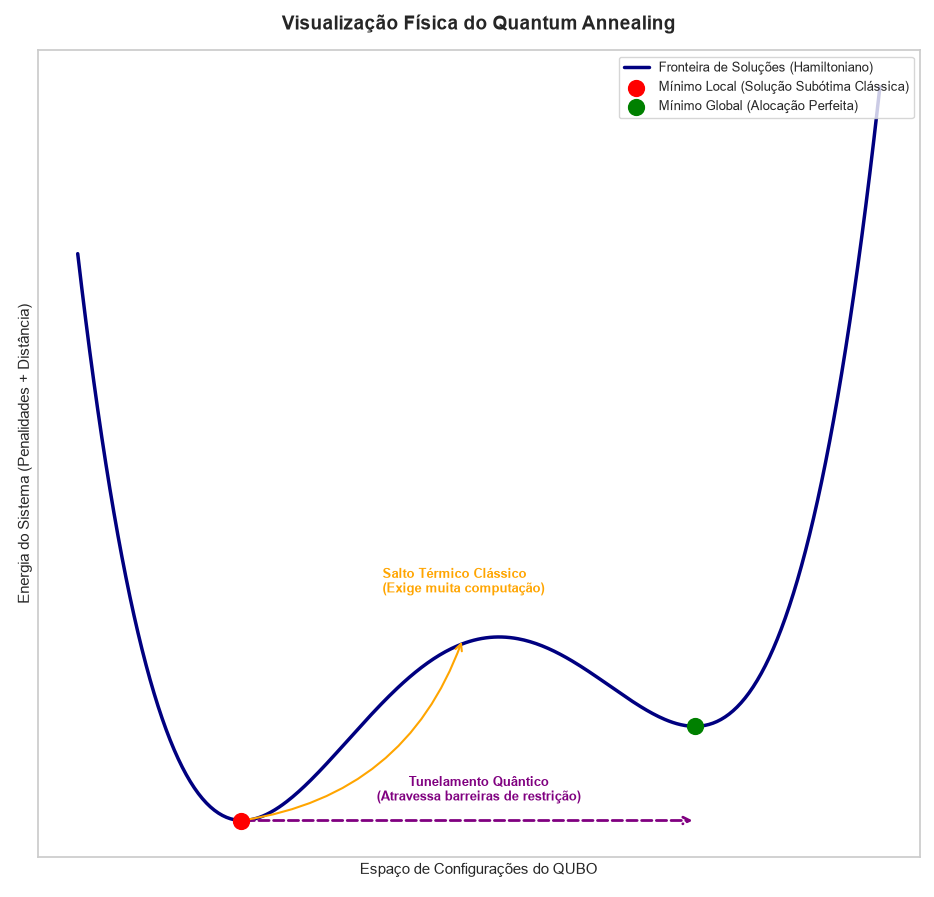
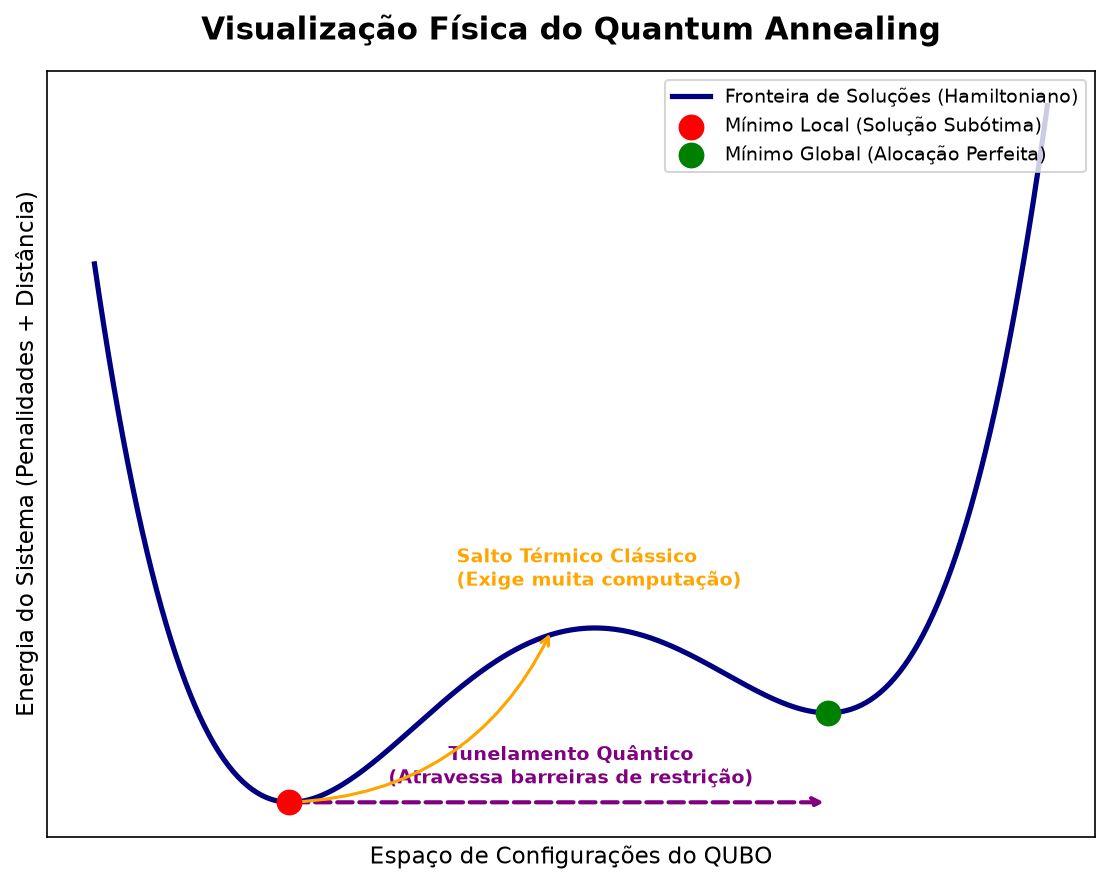
v3

diff --git a/qubo_teacher_allocation.py b/qubo_teacher_allocation.py
@@ -1,108 +1,60 @@
 import numpy as np
 import pandas as pd
 import matplotlib.pyplot as plt
-import seaborn as sns
+import matplotlib.patches as mpatches
+from matplotlib.patches import FancyBboxPatch
 import dimod
 import neal
 import itertools
 
 # =====================================================================
-# 1. RELATÓRIO TEÓRICO (RESPOSTAS COMPLETA DAS PERGUNTAS)
-# =====================================================================
-print("="*80)
-print("     RELATÓRIO TÉCNICO: OTIMIZAÇÃO DA DISTRIBUIÇÃO DE PROFESSORES     ")
-print("="*80)
-
-print("\nREQUISITO 1: Como a otimização de distribuição de professores pode ser feita?")
-print("-"*80)
-print("1. Mapeamento QUBO: O problema combinatório (NP-Difícil) é convertido em uma\n"
-      "   Função de Custo Binária (QUBO). Variáveis X_(p,e,h) assumem 1 para alocação\n"
-      "   e 0 para o contrário.\n"
-      "2. Hamiltoniano do Sistema: As regras do mundo real são traduzidas em energia:\n"
-      "   - Hard Constraints (Restrições Rígidas): Regras invioláveis (ex: professor em\n"
-      "     dois lugares ao mesmo tempo) recebem penalidades matemáticas gigantescas (+100).\n"
-      "   - Soft Constraints (Objetivos): O que queremos otimizar (ex: minimizar a\n"
-      "     distância de deslocamento) recebe pesos proporcionais ao custo real.\n"
-      "3. Realidade Quântica (Era NISQ): Hardwares atuais (100 a 1100 qubits físicos, erro ~10^-3)\n"
-      "   não suportam redes escolares inteiras diretamente. A abordagem real exige\n"
-      "   Decomposição Combinatória: solvers clássicos isolam os gargalos críticos, e a QPU\n"
-      "   resolve apenas essas submatrizes complexas.")
-
-print("\nREQUISITO 2: Quais algoritmos quânticos podem ser utilizados?")
-print("-"*80)
-print("1. QAOA (Quantum Approximate Optimization Algorithm): Algoritmo híbrido para\n"
-      "   computadores baseados em portas lógicas (IBM, Google). Alterna camadas de custo\n"
-      "   e mistura quântica, ajustando parâmetros via otimizadores clássicos.\n"
-      "2. Quantum Annealing (Recozimento Quântico): Utilizado por máquinas analógicas (D-Wave).\n"
-      "   Evolui o sistema adiabaticamente, permitindo que os qubits usem o Tunelamento Quântico\n"
-      "   para 'atravessar' picos de restrições e colapsar no Mínimo Global (solução ótima).\n"
-      "3. VQE (Variational Quantum Eigensolver): Outro algoritmo variacional híbrido,\n"
-      "   focado em encontrar o menor autovalor (estado fundamental de energia) do Hamiltoniano.")
-
-print("\n" + "="*80)
-print("             EXECUÇÃO DA SIMULAÇÃO (TOY PROBLEM QUÂNTICO)            ")
-print("="*80)
-
-# =====================================================================
-# 2. MODELAGEM DO TOY PROBLEM (DADOS SIMULADOS)
+# 1. DADOS DO PROBLEMA
 # =====================================================================
 professores = ['P1', 'P2', 'P3']
 escolas = ['E1', 'E2']
 horarios = ['Manha', 'Tarde']
 
-# Custo de deslocamento (em km ou tempo)
 distancias = {
     'P1': {'E1': 5,  'E2': 15},
     'P2': {'E1': 20, 'E2': 5},
     'P3': {'E1': 10, 'E2': 12}
 }
 
-print("\nMatriz de Custos de Entrada (Distância em km):")
+print("Matriz de Custos de Entrada (Distância em km):")
 df_dist = pd.DataFrame(distancias).T
 print(df_dist)
 print("-"*40)
 
 # =====================================================================
-# 3. FORMULAÇÃO MATEMÁTICA DO HAMILTONIANO (O QUBO)
+# 2. QUBO / HAMILTONIANO
 # =====================================================================
 bqm = dimod.BinaryQuadraticModel('BINARY')
 
-PENALIDADE_ESCOLA = 100        
-PENALIDADE_DUPLICIDADE = 100   
+PENALIDADE_ESCOLA = 100
+PENALIDADE_DUPLICIDADE = 100
 
-# A. Soft Constraint: Minimizar a Distância Geral
 for p in professores:
     for e in escolas:
         for h in horarios:
-            var_name = f"{p}_{e}_{h}"
-            bqm.add_linear(var_name, distancias[p][e])
+            bqm.add_linear(f"{p}_{e}_{h}", distancias[p][e])
 
-# B. Hard Constraint 1: Exatamente 1 professor por escola/horário
 for e in escolas:
     for h in horarios:
         for p in professores:
-            var_name = f"{p}_{e}_{h}"
-            bqm.add_linear(var_name, -PENALIDADE_ESCOLA)
-        
+            bqm.add_linear(f"{p}_{e}_{h}", -PENALIDADE_ESCOLA)
         for i, p1 in enumerate(professores):
             for j, p2 in enumerate(professores):
                 if i < j:
-                    var1 = f"{p1}_{e}_{h}"
-                    var2 = f"{p2}_{e}_{h}"
-                    bqm.add_quadratic(var1, var2, 2 * PENALIDADE_ESCOLA)
-                    
+                    bqm.add_quadratic(f"{p1}_{e}_{h}", f"{p2}_{e}_{h}", 2 * PENALIDADE_ESCOLA)
         bqm.offset += PENALIDADE_ESCOLA
 
-# C. Hard Constraint 2: Um professor não pode estar em 2 escolas ao mesmo tempo (Escalável)
 for p in professores:
     for h in horarios:
         for e1, e2 in itertools.combinations(escolas, 2):
-            var1 = f"{p}_{e1}_{h}"
-            var2 = f"{p}_{e2}_{h}"
-            bqm.add_quadratic(var1, var2, PENALIDADE_DUPLICIDADE)
+            bqm.add_quadratic(f"{p}_{e1}_{h}", f"{p}_{e2}_{h}", PENALIDADE_DUPLICIDADE)
 
 # =====================================================================
-# 4. RESOLUÇÃO VIA SIMULATED ANNEALING (SIMULADOR OCEAN SDK)
+# 3. RESOLUÇÃO (SIMULATED ANNEALING)
 # =====================================================================
 print("Executando o Annealer para varrer a paisagem de energia...")
 sampler = neal.SimulatedAnnealingSampler()
@@ -110,7 +62,6 @@ sampleset = sampler.sample(bqm, num_reads=2000)
 
 best_sample = sampleset.first.sample
 best_energy = sampleset.first.energy
-
 print(f"Sucesso! Mínimo Global (Energia de Base) Encontrado: {best_energy}")
 
 alocacao = []
@@ -121,51 +72,98 @@ for var, val in best_sample.items():
 
 df_alocacao = pd.DataFrame(alocacao)
 
-print("\n" + "="*80)
-print("                        RESULTADOS ENCONTRADOS                       ")
-print("="*80)
+print("\nRESULTADOS ENCONTRADOS")
 if not df_alocacao.empty:
     print(df_alocacao.to_string(index=False))
-    print("-"*40)
     print(f"Custo Total de Deslocamento do Ecossistema: {df_alocacao['Distância'].sum()} km")
-    
-    # Validação de Negócio (Alerta de ociosidade comum em otimizações puras)
     profs_alocados = df_alocacao['Professor'].unique()
     profs_ociosos = [p for p in professores if p not in profs_alocados]
     if profs_ociosos:
-        print(f"\n[ALERTA] NOTA DE ENGENHARIA: O algoritmo deixou o(s) professor(es) {profs_ociosos} ociosos.")
-        print("  Isso ocorre porque o Mínimo Global priorizou a eficiência máxima de distância.")
+        print(f"[ALERTA] Professor(es) ocioso(s): {profs_ociosos}")
 else:
+    profs_alocados = []
+    profs_ociosos = professores
     print("Erro: Nenhuma alocação respeitou as Hard Constraints.")
 
-# Preparação da matriz para o Heatmap gráfico
-mapa_alocacao = pd.DataFrame(index=escolas, columns=horarios, data="")
-for _, row in df_alocacao.iterrows():
-    mapa_alocacao.at[row['Escola'], row['Horário']] = row['Professor']
-
 # =====================================================================
-# 5. VISUALIZAÇÕES GRÁFICAS (MATPLOTLIB & SEABORN)
+# 4. VISUALIZAÇÕES (DOIS GRÁFICOS LADO A LADO)
 # =====================================================================
-sns.set_theme(style="whitegrid")
-fig = plt.figure(figsize=(15, 6))
+fig = plt.figure(figsize=(15, 6.5))
 
-# --- GRÁFICO 1: Heatmap da Alocação Ótima ---
+# --- GRÁFICO 1 (NOVO): Quadro de Alocação Docente ---
 ax1 = plt.subplot(1, 2, 1)
 
-def get_prof_idx(prof_str):
-    return professores.index(prof_str) if prof_str in professores else -1
+cell_w, cell_h = 2.4, 1.8
+x_offset, y_offset = 1.6, 1.0
+cores_prof = {'P1': '#2E6F95', 'P2': '#3E9C6B', 'P3': '#C08A3E'}
+custo_max = max(v for d in distancias.values() for v in d.values())
 
-mapa_cores = np.array([[get_prof_idx(mapa_alocacao.loc[e, h]) for h in horarios] for e in escolas])
+for i, e in enumerate(escolas):
+    for j, h in enumerate(horarios):
+        x = x_offset + j * (cell_w + 0.3)
+        y = y_offset + (len(escolas) - 1 - i) * (cell_h + 0.3)
 
-sns.heatmap(mapa_cores, annot=mapa_alocacao, fmt="", cmap="YlGnBu", cbar=False, 
-            linewidths=1.5, ax=ax1, annot_kws={"size": 16, "weight": "bold"},
-            xticklabels=horarios, yticklabels=escolas)
+        registro = df_alocacao[(df_alocacao.Escola == e) & (df_alocacao['Horário'] == h)] if not df_alocacao.empty else pd.DataFrame()
+        if not registro.empty:
+            p = registro.iloc[0]['Professor']
+            dist = registro.iloc[0]['Distância']
+            cor = cores_prof[p]
+            alpha = 0.35 + 0.5 * (dist / custo_max)
+        else:
+            p, dist, cor, alpha = None, None, '#E8E8E8', 1.0
 
-ax1.set_title("Grade Escolar Resultante (Mínimo Global)", fontsize=14, pad=15, weight='bold')
-ax1.set_xlabel("Horários", fontsize=11)
-ax1.set_ylabel("Escolas", fontsize=11)
+        box = FancyBboxPatch((x, y), cell_w, cell_h,
+                              boxstyle="round,pad=0.02,rounding_size=0.12",
+                              linewidth=1.5, edgecolor='white',
+                              facecolor=cor, alpha=alpha)
+        ax1.add_patch(box)
 
-# --- GRÁFICO 2: Paisagem de Energia Didática ---
+        if p:
+            ax1.text(x + cell_w/2, y + cell_h/2 + 0.25, p,
+                     ha='center', va='center', fontsize=20, weight='bold', color='white')
+            ax1.text(x + cell_w/2, y + cell_h/2 - 0.35, f"{dist} km",
+                     ha='center', va='center', fontsize=11, color='white', alpha=0.9)
+        else:
+            ax1.text(x + cell_w/2, y + cell_h/2, "vago",
+                     ha='center', va='center', fontsize=12, color='#999999', style='italic')
+
+for j, h in enumerate(horarios):
+    x = x_offset + j * (cell_w + 0.3) + cell_w/2
+    ax1.text(x, y_offset + len(escolas)*(cell_h+0.3) + 0.15, h,
+             ha='center', va='bottom', fontsize=12, weight='bold', color='#333333')
+
+for i, e in enumerate(escolas):
+    y = y_offset + (len(escolas) - 1 - i) * (cell_h + 0.3) + cell_h/2
+    ax1.text(x_offset - 0.35, y, e, ha='right', va='center',
+             fontsize=12, weight='bold', color='#333333')
+
+custo_total = df_alocacao['Distância'].sum() if not df_alocacao.empty else 0
+info_x = x_offset + len(horarios)*(cell_w+0.3) + 0.5
+
+ax1.text(info_x, y_offset + len(escolas)*(cell_h+0.3), "Resumo",
+         fontsize=13, weight='bold', color='#333333', va='top')
+ax1.text(info_x, y_offset + len(escolas)*(cell_h+0.3) - 0.6,
+         f"Custo total:\n{custo_total} km", fontsize=11, va='top', color='#2E6F95')
+
+y_cursor = y_offset + len(escolas)*(cell_h+0.3) - 1.9
+ax1.text(info_x, y_cursor, "Ociosos:", fontsize=11, weight='bold', va='top', color='#B0453E')
+y_cursor -= 0.45
+if profs_ociosos:
+    for p in profs_ociosos:
+        circ = mpatches.Circle((info_x + 0.15, y_cursor - 0.02), 0.15,
+                                facecolor=cores_prof.get(p, '#B0B0B0'), edgecolor='white')
+        ax1.add_patch(circ)
+        ax1.text(info_x + 0.45, y_cursor, p, fontsize=11, va='center')
+        y_cursor -= 0.5
+else:
+    ax1.text(info_x, y_cursor, "nenhum", fontsize=11, va='top', color='#3E9C6B')
+
+ax1.set_xlim(0, info_x + 2.2)
+ax1.set_ylim(0, y_offset + len(escolas)*(cell_h+0.3) + 0.8)
+ax1.axis('off')
+ax1.set_title("Grade Escolar Resultante (Mínimo Global)", fontsize=14, weight='bold', pad=15)
+
+# --- GRÁFICO 2: Paisagem de Energia Didática (mantido do original) ---
 ax2 = plt.subplot(1, 2, 2)
 x = np.linspace(-2.5, 2.5, 400)
 energia = x**4 - 4*x**2 + x
@@ -178,13 +176,11 @@ x_global, y_global = 1.35, (1.35)**4 - 4*(1.35)**2 + (1.35)
 ax2.scatter(x_local, y_local, color='red', s=130, zorder=5, label='Mínimo Local (Solução Subótima Clássica)')
 ax2.scatter(x_global, y_global, color='green', s=130, zorder=5, label='Mínimo Global (Alocação Perfeita)')
 
-# Seta do Tunelamento Quântico
 ax2.annotate('', xy=(x_global, y_local), xytext=(x_local, y_local),
              arrowprops=dict(arrowstyle="->", color="purple", ls="--", lw=2))
-ax2.text(0, y_local + 0.6, 'Tunelamento Quântico\n(Atravessa barreiras de restrição)', 
+ax2.text(0, y_local + 0.6, 'Tunelamento Quântico\n(Atravessa barreiras de restrição)',
          horizontalalignment='center', color='purple', fontsize=9, weight='bold')
 
-# Seta da Otimização Clássica
 ax2.annotate('', xy=(-0.1, 0), xytext=(x_local, y_local),
              arrowprops=dict(connectionstyle="arc3,rad=.3", arrowstyle="->", color="orange", lw=1.5))
 ax2.text(-0.6, 1.4, 'Salto Térmico Clássico\n(Exige muita computação)', color='orange', fontsize=9, weight='bold')
@@ -197,4 +193,5 @@ ax2.set_yticks([])
 ax2.legend(loc='upper right', fontsize=9)
 
 plt.tight_layout()
+plt.savefig('grafico_completo.png', dpi=150, bbox_inches='tight')
 plt.show()
